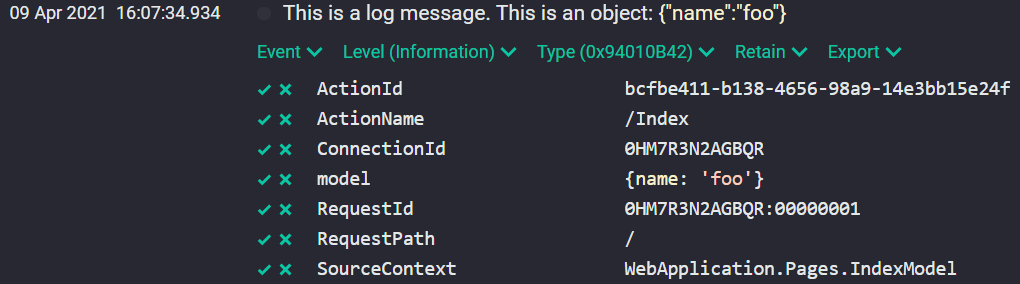
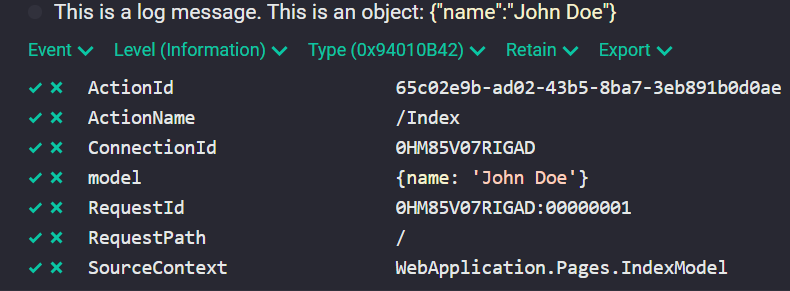
Misc updates

diff --git a/7_Structured_Logging_in_ASP.NET_5_with_Serilog/code/WebApplication/WebApplication/Pages/Index.cshtml.cs b/7_Structured_Logging_in_ASP.NET_5_with_Serilog/code/WebApplication/WebApplication/Pages/Index.cshtml.cs
@@ -15,7 +15,7 @@ namespace WebApplication.Pages
 
         public void OnGet()
         {
-            _logger.LogInformation("This is a log message. This is an object: {@model}", new { name = "foo" });
+            _logger.LogInformation("This is a log message. This is an object: {@model}", new { name = "John Doe" });
         }
     }
 }
